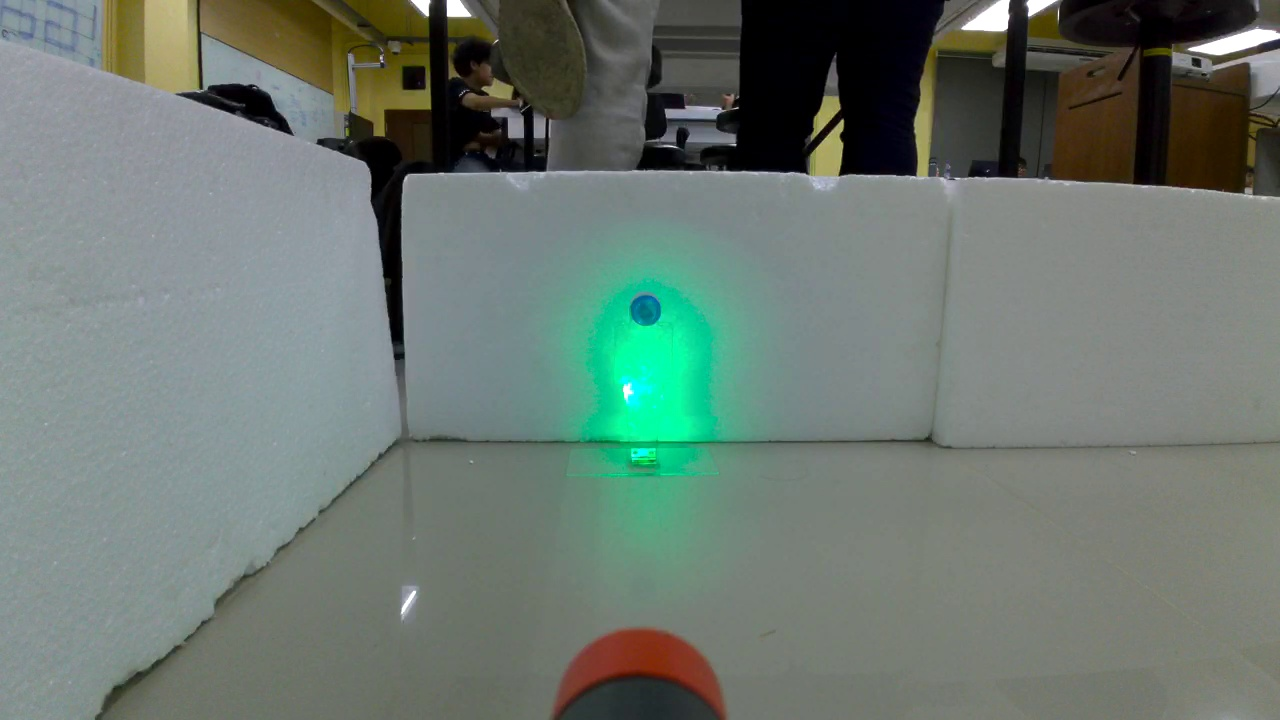
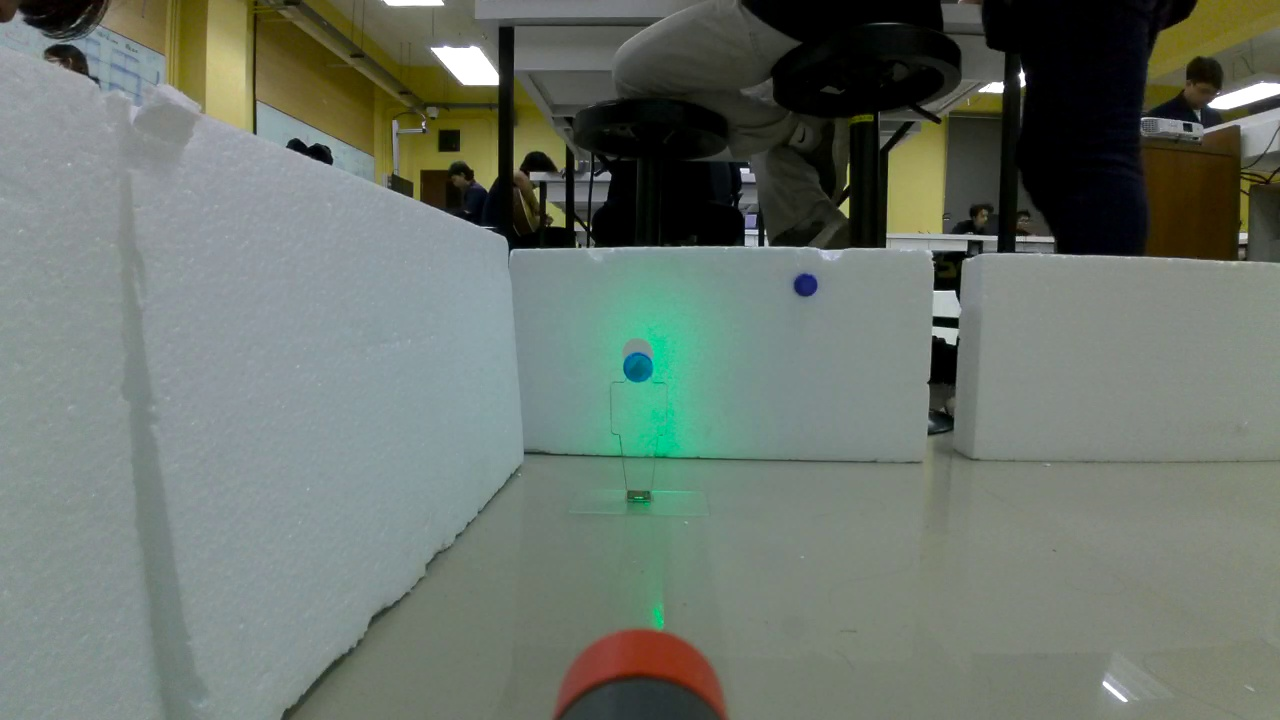
Co-authored-by: Thanathat26 <Thanathat26@users.noreply.github.com>

diff --git a/Assignment_03/test1.py b/Assignment_03/test1.py
@@ -1,0 +1,106 @@
+import cv2
+import robomaster
+from robomaster import robot
+from robomaster import blaster
+from robomaster import camera
+import time
+import numpy as np
+
+def came(image):
+    cv2.imshow('Detected', image)
+    key = cv2.waitKey(1)
+    if key == ord('q'):
+        return False
+    return True
+def find_theif(image):
+    hsv = cv2.cvtColor(image, cv2.COLOR_BGR2HSV)
+    lower_blue = np.array([102, 123, 113])
+    upper_blue = np.array([179, 255, 255])
+    lower_blue2 = np.array([94, 158, 62])
+    upper_blue2 = np.array([180, 255, 255])
+    mask = cv2.inRange(hsv, lower_blue, upper_blue)
+    mask1 = cv2.inRange(hsv, lower_blue2, upper_blue2)
+    mask = cv2.bitwise_or(mask, mask1)
+    
+    blurred = cv2.GaussianBlur(mask, (5, 5), 0)
+    circles = cv2.HoughCircles(blurred, cv2.HOUGH_GRADIENT, dp=1.2, minDist=50, param1=50, param2=30, minRadius=10, maxRadius=200)
+
+    if circles is not None:
+        circles = np.round(circles[0, :]).astype("int")
+        for (x, y, r) in circles:
+            # Draw the circle in the original image
+            cv2.circle(image, (x, y), r, (0, 255, 0), 4)
+            # Draw a rectangle at the center of the circle
+            cv2.rectangle(image, (x - 5, y - 5), (x + 5, y + 5), (0, 128, 255), -1)
+    
+    return image, circles
+
+def find_theif_body(image):
+    # Convert the image to grayscale
+    gray_image = cv2.cvtColor(image, cv2.COLOR_BGR2GRAY)
+    blurred = cv2.GaussianBlur(gray_image, (5, 5), 0)
+    
+    # Load the template image and convert it to grayscale
+    template = cv2.imread(r'D:\Subject\Robot Ai\Robot_group\Robot_old_too\Assignment_03\boky_man_led.jpg') 
+    if template is None:
+        print("Template image not found.")
+        return image  # Return original image if template is not found
+    
+    template_gray = cv2.cvtColor(template, cv2.COLOR_BGR2GRAY)
+        
+    # Get the width and height of the template
+    template_height, template_width = template_gray.shape[:2]
+    
+    # Perform template matching
+    match_result = cv2.matchTemplate(blurred, template_gray, cv2.TM_CCOEFF_NORMED)
+    
+    # Define a threshold to consider a match valid
+    threshold = 0.2
+    min_val, max_val, min_loc, max_loc = cv2.minMaxLoc(match_result)
+
+    # Draw a rectangle around the found template location
+    if max_val >= threshold:
+        top_left = max_loc
+        bottom_right = (top_left[0] + template_width, top_left[1] + template_height)
+        cv2.rectangle(image, top_left, bottom_right, (0, 255, 0), 2)  # Draw rectangle on original image
+    
+    return image
+
+if __name__ == '__main__':
+    ep_robot = robot.Robot()
+    ep_robot.initialize(conn_type="ap", proto_type="udp")
+    ep_gimbal = ep_robot.gimbal
+    ep_camera = ep_robot.camera
+    ep_blaster = ep_robot.blaster
+    ep_camera.start_video_stream(display=False, resolution=camera.STREAM_720P)
+    ep_gimbal.recenter(pitch_speed=200, yaw_speed=200).wait_for_completed()
+
+    center_x = 1280 / 2
+    center_y = 720 / 2
+
+    p = 0.6 / 2.2
+    i = 0 # p / (0.7 / 2)
+    d = 0 # p * (0.7 / 8)
+
+    accumulate_err_x = 0
+    accumulate_err_y = 0
+    prev_time = time.time()
+
+    try:
+        while True:
+            frame = ep_camera.read_cv2_image(strategy="newest", timeout=0.5)
+            if frame is not None:
+                ep_blaster.set_led(brightness=32, effect=blaster.LED_ON)
+                time.sleep(1)
+                im = find_theif_body(frame)
+
+                if not came(im):
+                    break
+                
+            time.sleep(0.1)
+    except KeyboardInterrupt:
+        print("Program interrupted by user")  
+
+    ep_camera.stop_video_stream()
+    ep_robot.close()
+    cv2.destroyAllWindows()

diff --git a/Assignment_03/test2.py b/Assignment_03/test2.py
@@ -1,0 +1,76 @@
+import cv2
+import robomaster
+from robomaster import robot
+from robomaster import blaster
+from robomaster import camera
+import time
+import numpy as np
+
+def came(image):
+    cv2.imshow('Detected', image)
+    key = cv2.waitKey(1)
+    if key == ord('q'):
+        return False
+    return True
+
+def find_theif_body(image):
+    # Since the input is already an edge-detected grayscale image, no need to convert to grayscale again
+
+    # Load the template image and convert it to grayscale
+    template = cv2.imread(r'D:\Subject\Robot Ai\Robot_group\Robot_old_too\Assignment_03\boky_man_match_clear.jpg') 
+    if template is None:
+        print("Template image not found.")
+        return image  # Return original image if template is not found
+    
+    template_gray = cv2.cvtColor(template, cv2.COLOR_BGR2GRAY)
+    template_gray = cv2.Canny(frame, 100, 200)
+    # Get the width and height of the template
+    template_height, template_width = template_gray.shape[:2]
+    
+    # Perform template matching
+    match_result = cv2.matchTemplate(image, template_gray, cv2.TM_CCOEFF_NORMED)
+    
+    # Define a threshold to consider a match valid
+    threshold = 0.5
+    min_val, max_val, min_loc, max_loc = cv2.minMaxLoc(match_result)
+
+    # Draw a rectangle around the found template location
+    if max_val >= threshold:
+        top_left = max_loc
+        bottom_right = (top_left[0] + template_width, top_left[1] + template_height)
+        cv2.rectangle(image, top_left, bottom_right, (0, 255, 0), 2)  # Draw rectangle on original image
+    
+    return image
+
+
+if __name__ == '__main__':
+    ep_robot = robot.Robot()
+    ep_robot.initialize(conn_type="ap", proto_type="udp")
+    ep_gimbal = ep_robot.gimbal
+    ep_camera = ep_robot.camera
+    ep_blaster = ep_robot.blaster
+    ep_camera.start_video_stream(display=False, resolution=camera.STREAM_720P)
+    ep_gimbal.recenter(pitch_speed=200, yaw_speed=200).wait_for_completed()
+
+    try:
+        while True:
+            frame = ep_camera.read_cv2_image(strategy="newest", timeout=0.5)
+            if frame is not None:
+                ep_blaster.set_led(brightness=32, effect=blaster.LED_ON)
+                time.sleep(1)
+                frame  =  cv2.cvtColor(frame, cv2.COLOR_BGR2GRAY)
+                edges = cv2.Canny(frame, 100, 200)
+                # Process frame using edge detection and template matching
+                im = find_theif_body(edges)
+
+                if not came(im):
+                    break
+                
+            time.sleep(0.1)
+
+    except KeyboardInterrupt:
+        print("Program interrupted by user")  
+
+    ep_camera.stop_video_stream()
+    ep_robot.close()
+    cv2.destroyAllWindows()

diff --git a/Assignment_03/backtrack3.py b/Assignment_03/backtrack3.py
@@ -27,7 +27,7 @@ def sub_data_handler(sub_info):
 def state(tof, charp):
     min_charp = 20
     if len(tof) > 0:
-        if tof[-1] <= 280:
+        if tof[-1] <= 330:
             s[1] = 1
         else:
             s[1] = 0
@@ -185,7 +185,7 @@ class Robomaster:
                 if len(self.visited) < 2 :
                     tof = self.tof_check(direction)
                     time.sleep(0.4)
-                    if tof <= 250 :
+                    if tof <= 300 :
                         path_clear = False
                     else :
                         path_clear = True
@@ -348,6 +348,8 @@ class Robomaster:
         if (ad['left'][-1] != 'empty' and ad['right'][-1] != 'empty'):    
             print(ad['left'][-1],ad['right'][-1])
             self.center_reset(ad['left'][-1],ad['right'][-1])
+        if len(self.path_history) == 0:
+                self.position = self.junctions.pop()
         target_distance = 0.6  # Target distance to move forward
         ep_chassis.move(x=target_distance, y=0, z=0, xy_speed=0.6).wait_for_completed()
         time.sleep(1)
@@ -389,7 +391,7 @@ class Robomaster:
         self.visited.append(self.position)
         print(f'visited{self.visited}')
         print(f'robot direct :{self.robot_direction}')
-        print(f'direction :{possible_moves},new_position: {new_position}') 
+        
         possible_moves = []
         for direction in DIRECTIONS:
             dx, dy = direction
@@ -405,7 +407,9 @@ class Robomaster:
                     new_position = (x + dy, y - dx )
             if self.is_path_clear(direction) and new_position not in self.visited:
                 n+=1
+                
                 possible_moves.append((direction))
+                print(f'new_position: {new_position} and direction{direction}') 
                 
         if len(possible_moves) > 1:
             self.junctions.append(self.position)
@@ -419,9 +423,8 @@ class Robomaster:
                 return
             dx, dy = self.path_history.pop()
             self.move_in_direction(-dx, -dy)
-            if len(self.path_history) == 0:
-                self.position = self.junctions.pop()
             
+                
 
         dx, dy = possible_moves[0]
         self.position = (x + dx, y + dy)

diff --git a/Assignment_03/capture_crosshair.py b/Assignment_03/capture_crosshair.py
@@ -51,7 +51,7 @@ if __name__ == '__main__':
     while True:
         # Get the latest frame from the camera
         frame = ep_camera.read_cv2_image(strategy="newest")
-        ep_blaster.set_led(brightness=64, effect=blaster.LED_ON)
+        ep_blaster.set_led(brightness=32, effect=blaster.LED_ON)
         time.sleep(1)
         if frame is not None:
             # Draw the crosshair on the frame

diff --git a/Assignment_03/btk07102567.py b/Assignment_03/btk07102567.py
@@ -301,7 +301,7 @@ class Robomaster:
             self.move_in_direction(-dx, -dy)
             if len(self.path_history) == 0:
                 self.position = self.junctions.pop()
-            return
+                return
 
         dx, dy = possible_moves[0]
         self.position = (x + dx, y + dy)
